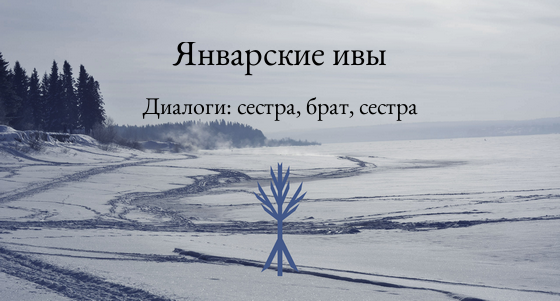
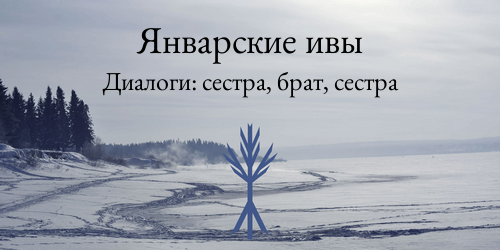
Open Graph update

diff --git a/willows/dialogues-1.html b/willows/dialogues-1.html
@@ -16,8 +16,8 @@
     <meta property="og:description" content="Царила тишина. Лишь ванадиевые токи Дальнего Эфира тензорным перезвоном едва тревожили ее покров. Дым, в котором то не было ни одного цвета, то вдруг переливались все сразу, лениво вытекал из тонкой сигареты, закрепленной в длинном черном мундштуке, по которому кружились замысловатые узоры. Дым сворачивался облаком где-то под высоким белым потолком, в его завихрениях можно было при желании увидеть дурманные образы и грезы, существующие лишь мгновение и рассыпающиеся мгновением позже. Хотя стороннему наблюдателю, найдись таковой, могло показаться и так, что комната — лишь видение, а дымные образы более реальны, чем его собственная жизнь. Темноволосая владетельница мундштука, чье молочно-белое тело словно бы освещало полумрак вокруг, выдохнула сизое колечко и негромко проговорила, прищурив серые глаза, обращаясь к лежащему рядом мужчине, слегка растягивая гласные:" />
     <meta property="og:site_name" content="Январские ивы"/>
     <meta property="og:image" content="https://mforv.github.io/willows/img/dialogues-1.png"/>
-    <meta property="og:image:width" content="560"/>
-    <meta property="og:image:height" content = "300"/>
+    <meta property="og:image:width" content="500"/>
+    <meta property="og:image:height" content = "250"/>
     <meta name="twitter:card" content="summary_large_image">
     <meta name="twitter:site" content="@mforv">
     <meta name="twitter:title" content="Январские ивы — Диалоги: сестра, брат, сестра">

diff --git a/willows/truth.html b/willows/truth.html
@@ -16,8 +16,8 @@
     <meta property="og:description" content="Шел дождь. Надоедливо бил по подоконнику, рассыпая по стеклам осколки капель, стыдливой вуалью мороси укрывал грязные улицы, скрадывал редких прохожих и машины, глушил остатки света, убивая всякую надежду разглядеть за Завесой тусклый диск солнца, упрямым пауком вползал в комнату, сплетая в углах серую паутину прогорклой зябкости и напитывая воздух холодной сыростью." />
     <meta property="og:site_name" content="Январские ивы"/>
     <meta property="og:image" content="https://mforv.github.io/willows/img/truth.png"/>
-    <meta property="og:image:width" content="560"/>
-    <meta property="og:image:height" content = "300"/>
+    <meta property="og:image:width" content="500"/>
+    <meta property="og:image:height" content = "250"/>
     <meta name="twitter:card" content="summary_large_image">
     <meta name="twitter:site" content="@mforv">
     <meta name="twitter:title" content="Январские ивы — Правда — зверь с печальным ликом">
